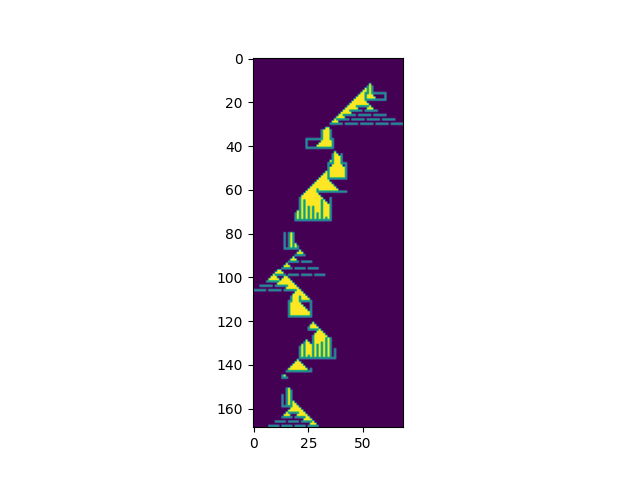
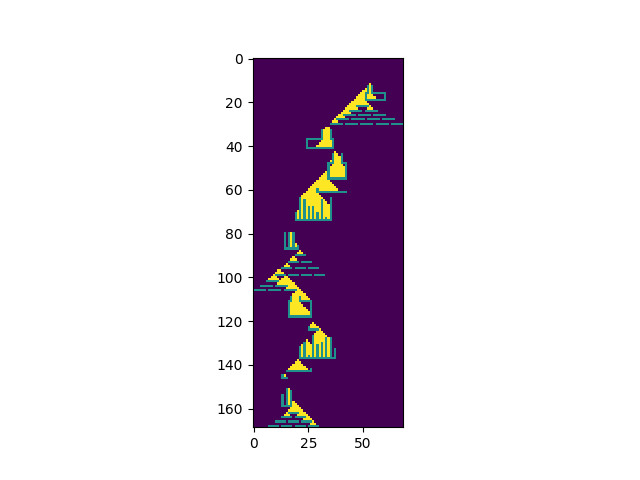
day 14 better picture

Changed region(s): [[0.4062, 0.1562, 0.625, 0.9062]]

diff --git a/my_advent/day14.py b/my_advent/day14.py
@@ -85,7 +85,7 @@ def fill_cave_with_sand(inputs: list[str]) -> int:
     # create picture of result
     empty_columns = np.argwhere(np.all(cave[..., :] == 0, axis=0))
     print_cave = np.delete(cave, empty_columns, axis=1)
-    plt.imshow(print_cave)
+    plt.imshow(print_cave, interpolation='none')
     plt.savefig("day14.png")
     return sand_stacked
 
